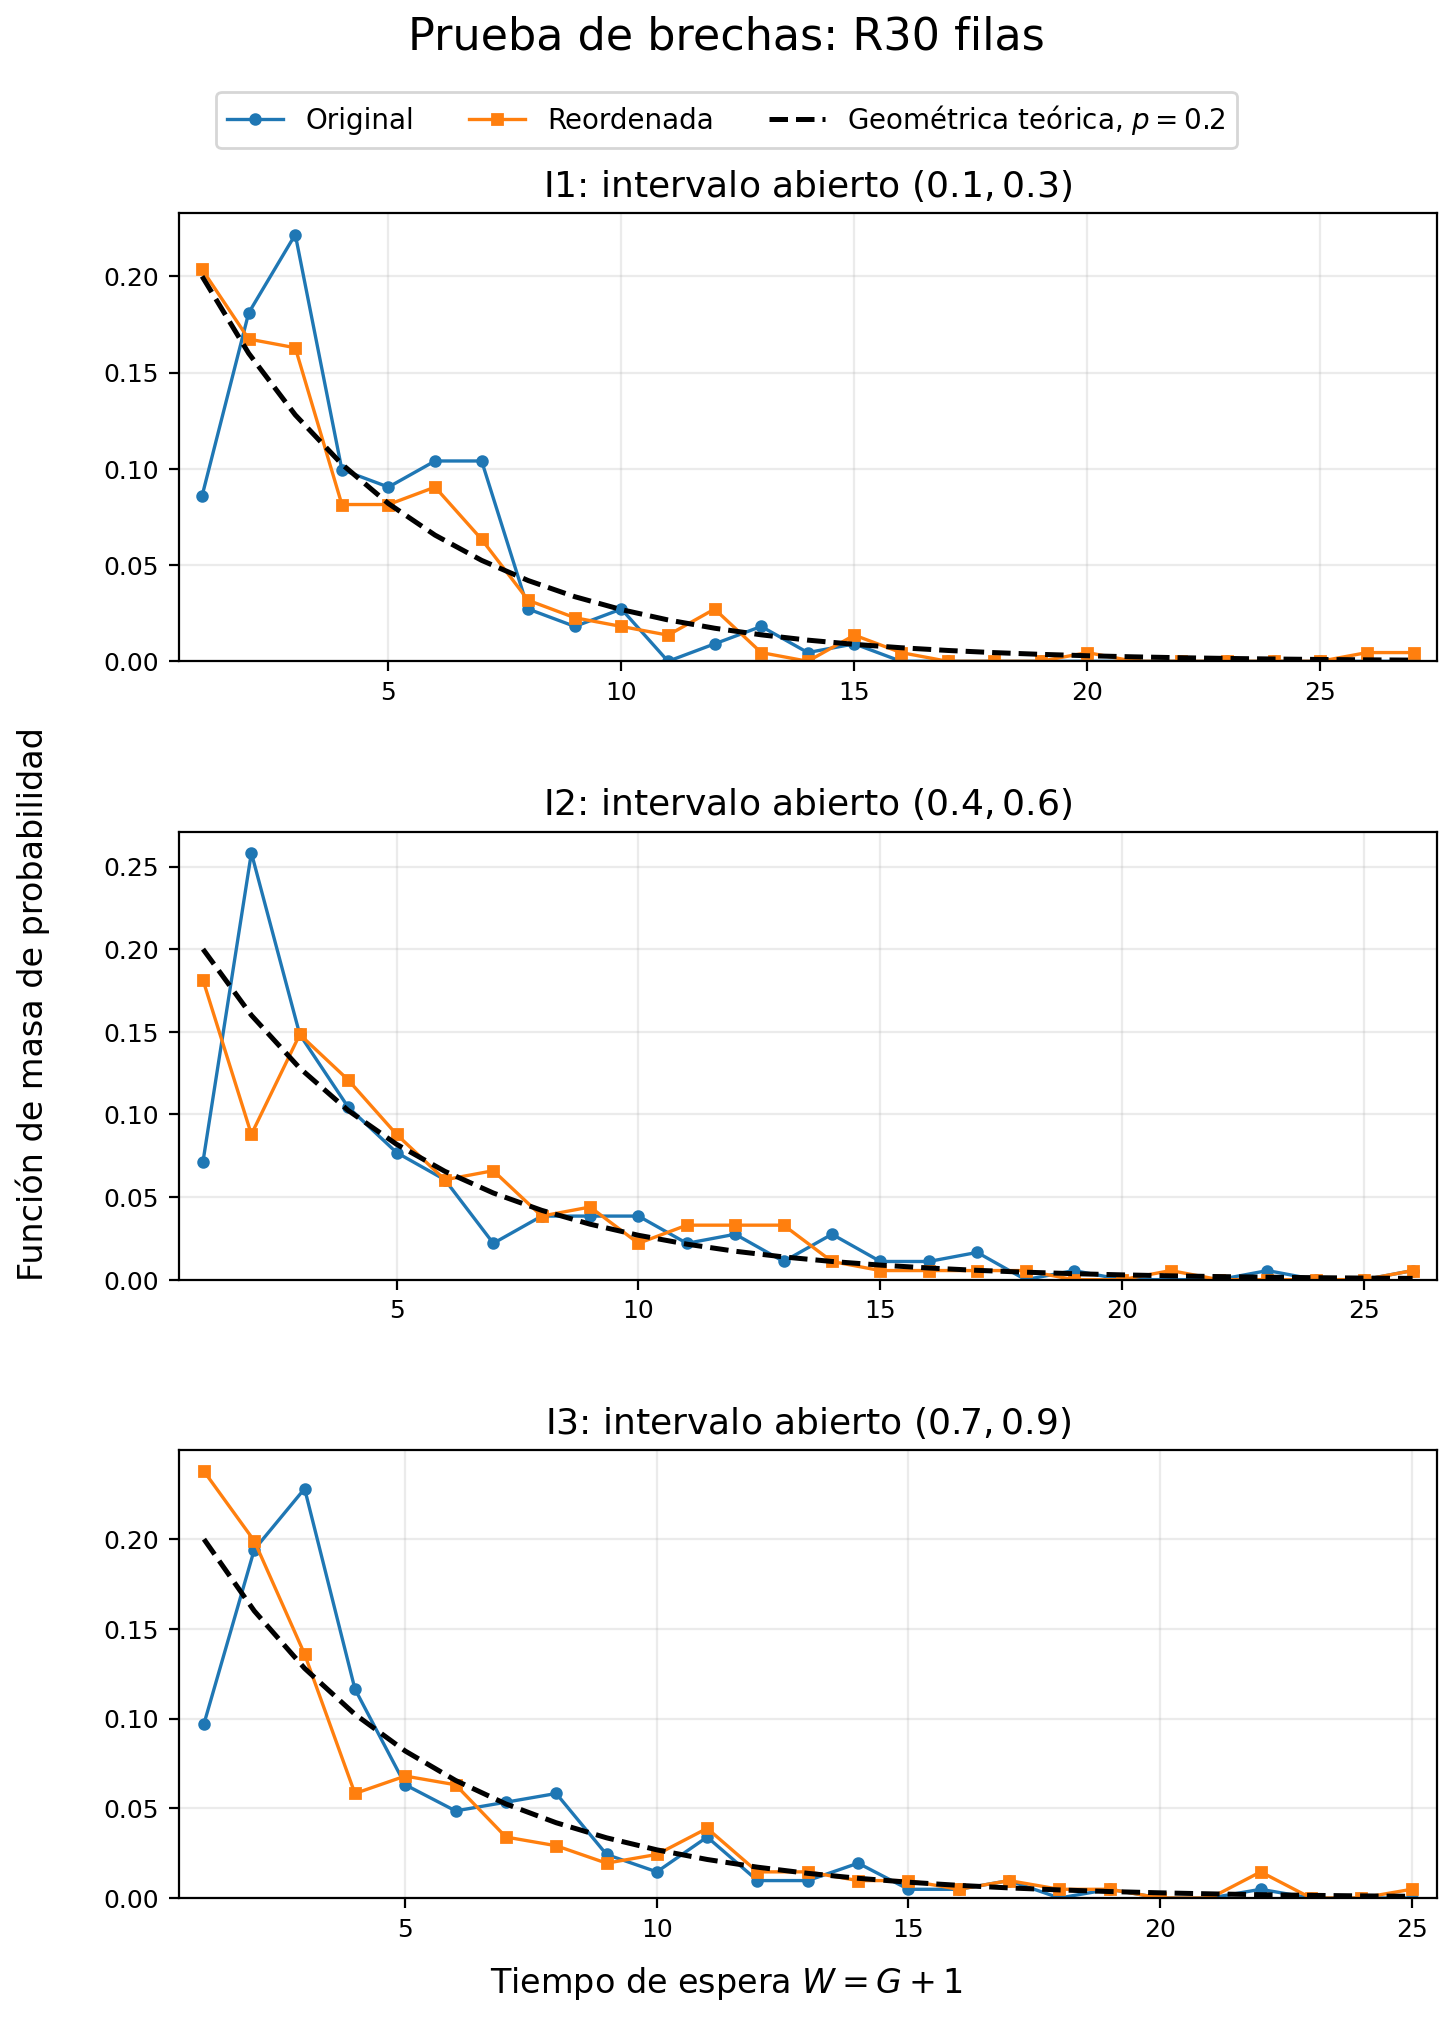
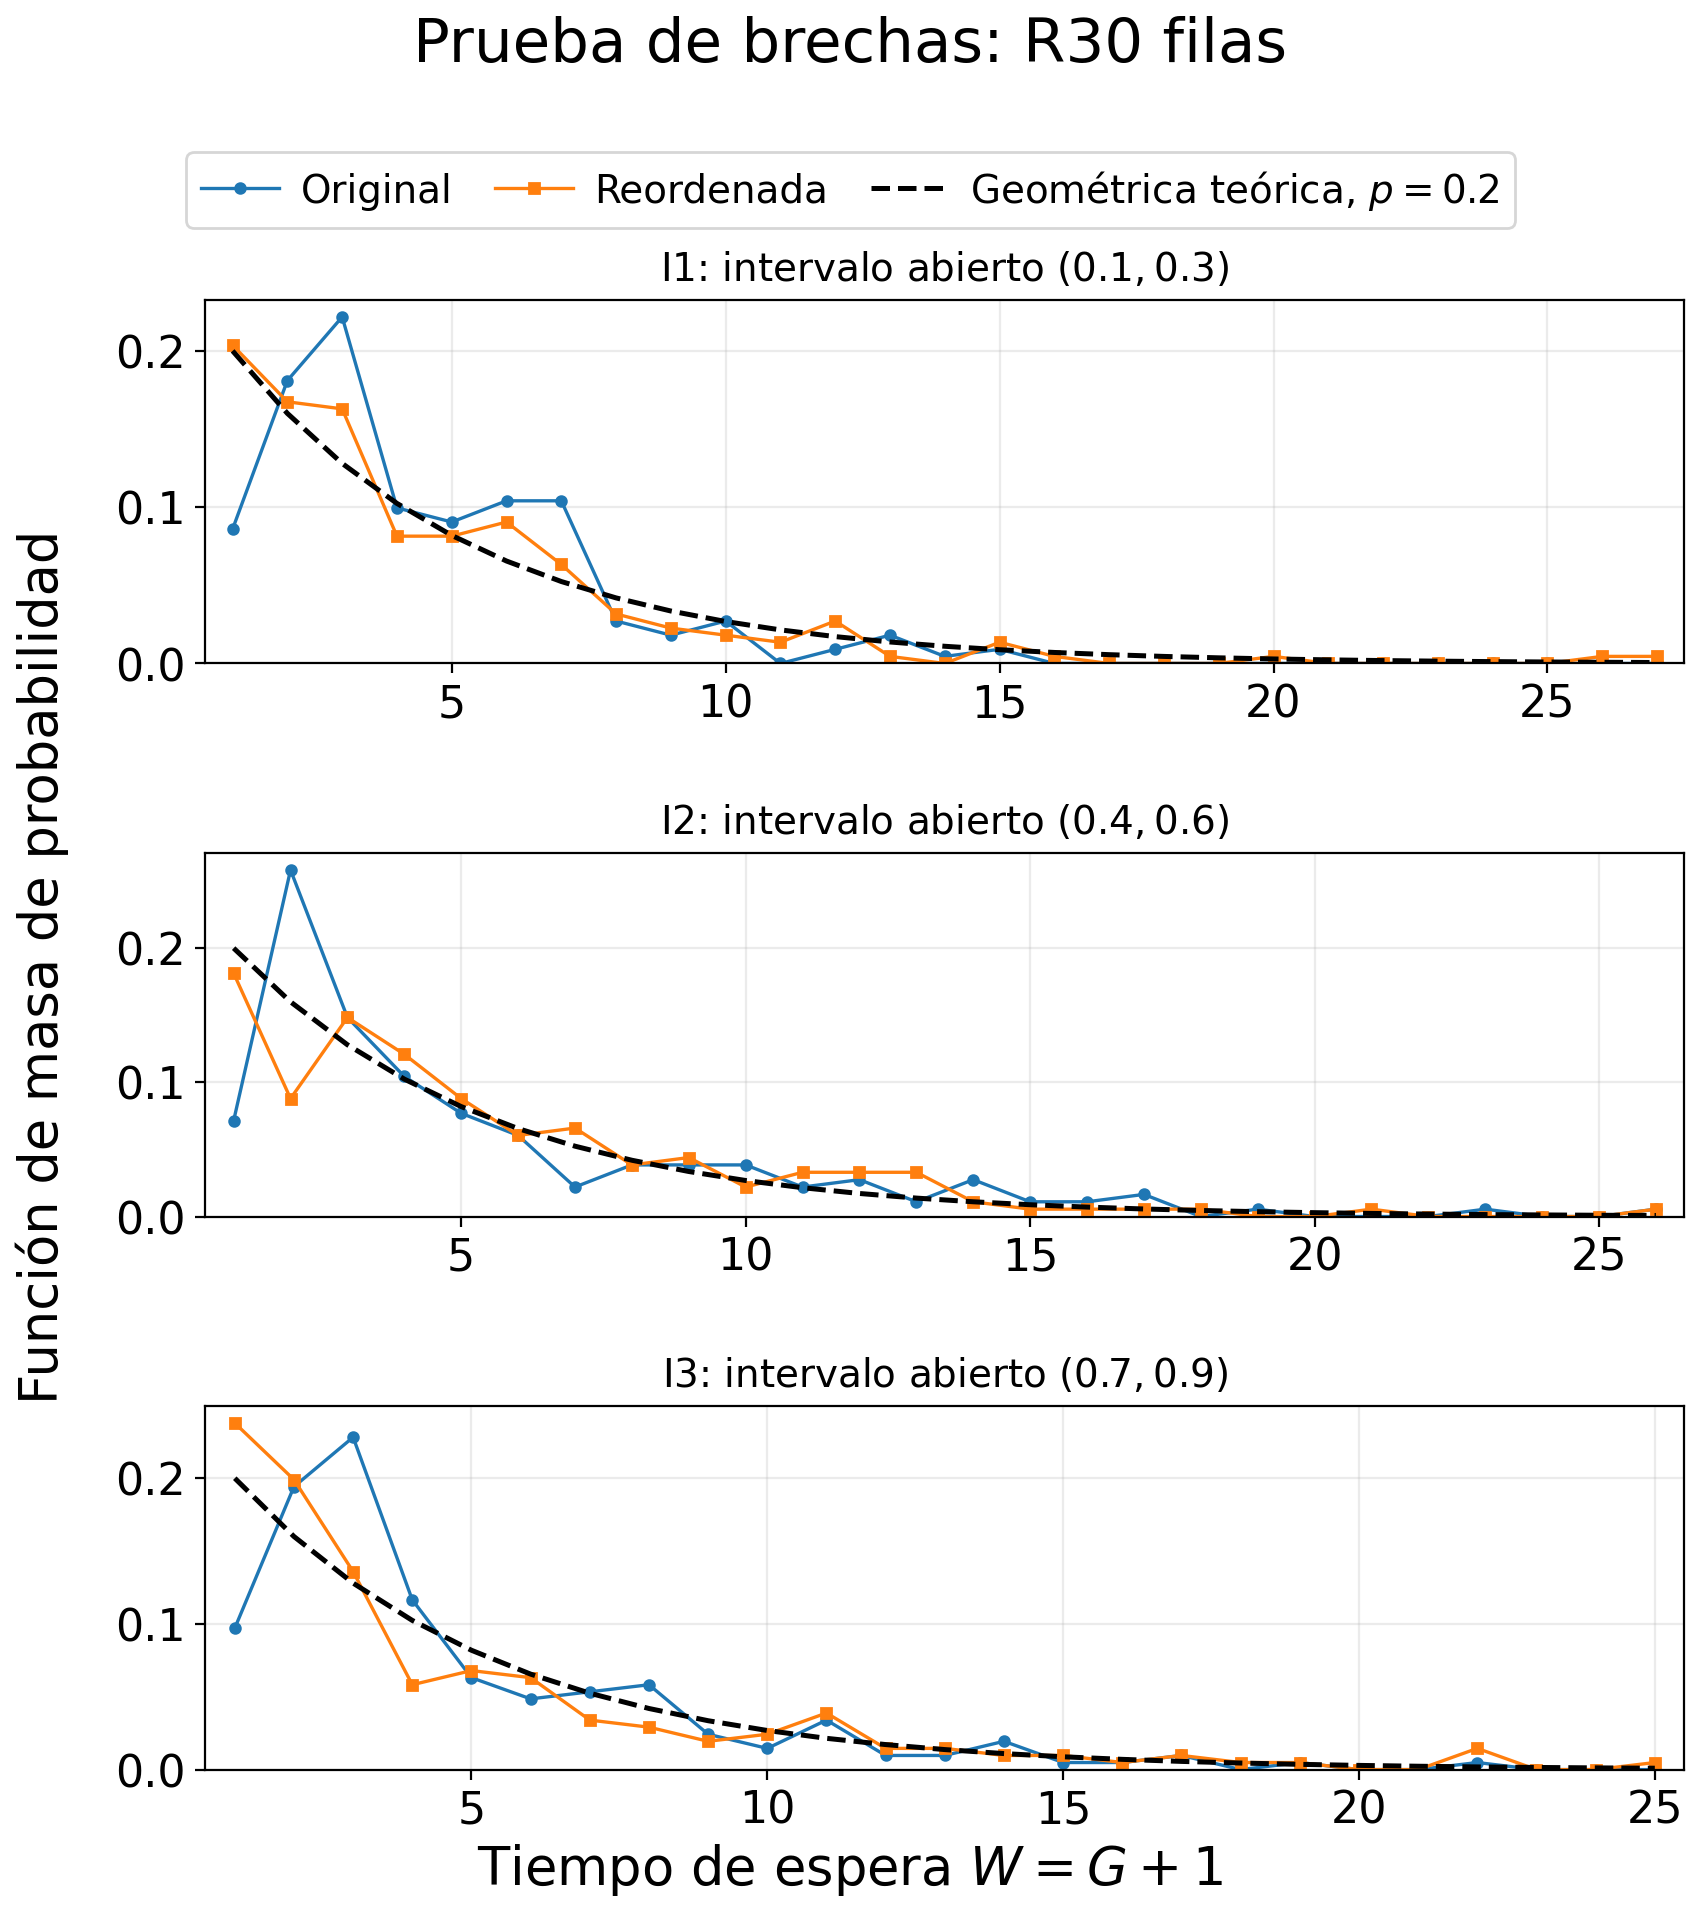
style: normaliza figuras de brechas

diff --git a/src/tesis_generacion/visualizacion/reordenamiento.py b/src/tesis_generacion/visualizacion/reordenamiento.py
@@ -26,6 +26,8 @@ from tesis_generacion.experimentos.parametros import (
     PROBABILIDAD_BRECHAS,
 )
 from tesis_generacion.visualizacion.estilo import (
+    PERFIL_MEDIO,
+    PerfilTipografico,
     estilizar_eje,
     guardar_figura,
     leyenda_externa,
@@ -59,6 +61,11 @@ ARCHIVOS_REFERENCIA_REORDENAMIENTO = (
     "resumen_reordenamiento.csv",
     "resumen_brechas_reordenamiento.csv",
 )
+
+# La figura termina a media página (y, para R30, en una pareja al 49 % del
+# ancho). Esta geometría compacta conserva tres paneles legibles sin el exceso
+# vertical de la versión histórica de 7.4 x 10.4 pulgadas.
+FIGSIZE_BRECHAS = (8.6, 9.8)
 
 
 def _guardar_figura(figura: plt.Figure, ruta: Path) -> None:
@@ -119,12 +126,27 @@ def guardar_brechas_antes_despues(
     reordenada: np.ndarray,
     intervalos: Mapping[str, tuple],
     titulo: str,
+    perfil: PerfilTipografico = PERFIL_MEDIO,
 ) -> None:
     """Compara las PMF para los tres intervalos comunes en paneles."""
 
-    figura, ejes = plt.subplots(len(intervalos), 1, figsize=(7.4, 10.4))
-    figura.subplots_adjust(left=0.13, right=0.98, bottom=0.07, top=0.88, hspace=0.38)
-    figura.suptitle(f"Prueba de brechas: {titulo}", y=0.975, fontsize=16)
+    figura, ejes = plt.subplots(
+        len(intervalos),
+        1,
+        figsize=FIGSIZE_BRECHAS,
+    )
+    figura.subplots_adjust(
+        left=0.125,
+        right=0.985,
+        bottom=0.09,
+        top=0.84,
+        hspace=0.52,
+    )
+    figura.suptitle(
+        f"Prueba de brechas: {titulo}",
+        y=0.985,
+        fontsize=perfil.titulo,
+    )
     for eje, (intervalo_id, (alpha, beta)) in zip(ejes, intervalos.items()):
         tiempos_original, _ = tiempos_espera_brechas(original, alpha, beta)
         tiempos_reordenados, _ = tiempos_espera_brechas(
@@ -163,21 +185,35 @@ def guardar_brechas_antes_despues(
             ),
             xlim=(0.5, maximo + 0.5),
         )
-        eje.set_title(eje.get_title(), fontsize=13)
         eje.set_ylim(bottom=0.0)
         eje.grid(alpha=0.25)
-        eje.tick_params(axis="both", labelsize=9)
+        estilizar_eje(eje, perfil)
+        eje.set_title(
+            eje.get_title(),
+            fontsize=perfil.anotacion,
+            pad=7.0,
+        )
     manejadores, etiquetas = ejes[0].get_legend_handles_labels()
     figura.legend(
         manejadores,
         etiquetas,
         loc="upper center",
-        bbox_to_anchor=(0.5, 0.945),
+        bbox_to_anchor=(0.5, 0.925),
         ncol=3,
-        fontsize=10,
+        fontsize=perfil.leyenda,
+        columnspacing=1.1,
+        handletextpad=0.55,
     )
-    figura.supxlabel(r"Tiempo de espera $W=G+1$", y=0.02, fontsize=12)
-    figura.supylabel("Función de masa de probabilidad", x=0.02, fontsize=12)
+    figura.supxlabel(
+        r"Tiempo de espera $W=G+1$",
+        y=0.025,
+        fontsize=perfil.ejes,
+    )
+    figura.supylabel(
+        "Función de masa de probabilidad",
+        x=0.015,
+        fontsize=perfil.ejes,
+    )
     _guardar_figura(figura, ruta)
 
 
